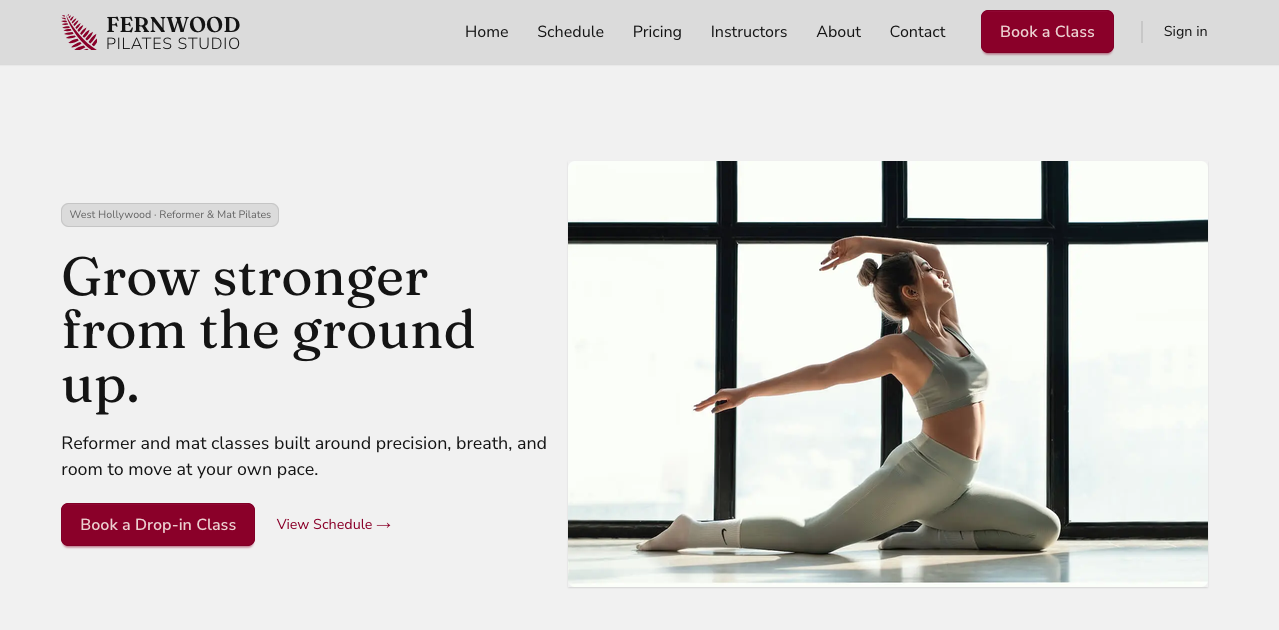
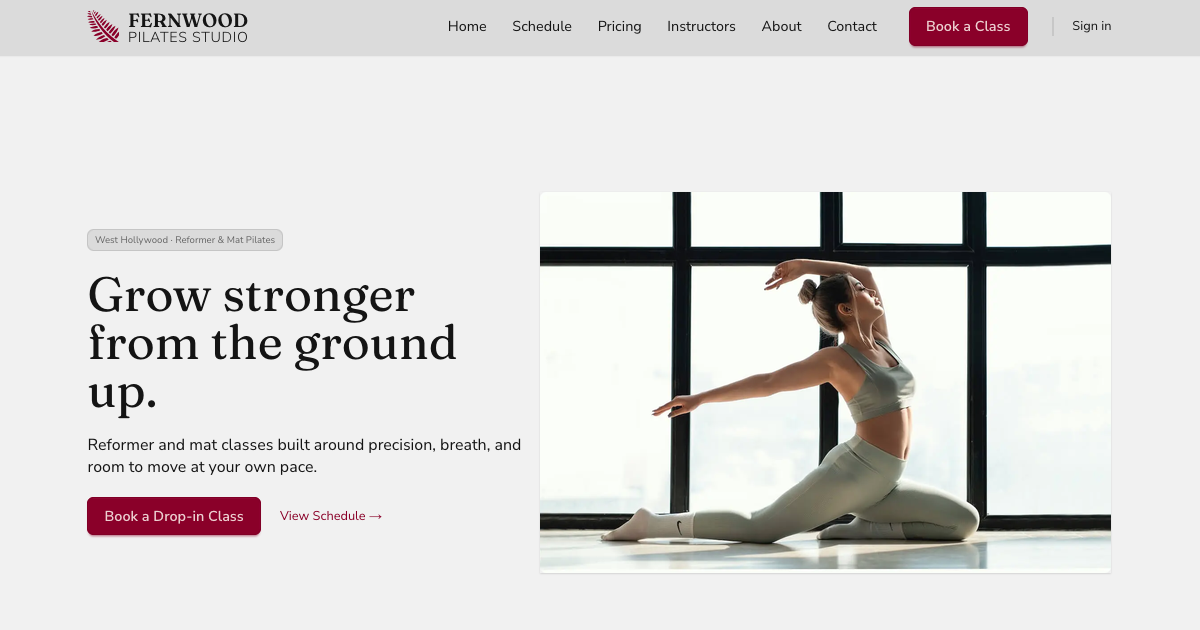
zapped old "neoncore" branded email

diff --git a/src/sections/contact/VisitUs.tsx b/src/sections/contact/VisitUs.tsx
@@ -48,7 +48,7 @@ function VisitUs() {
                 Contact
               </h2>
               <p className="mt-2 font-semibold">(323) 555-1987</p>
-              <p className="font-semibold">[email redacted]</p>
+              <p className="font-semibold">[email redacted]</p>
             </div>
           </div>
         </div>

diff --git a/notes/copy-read-through-checklist.md b/notes/copy-read-through-checklist.md
@@ -2,7 +2,7 @@
 
 ## Leftover rebrand residue from name change from "Neon Core" to "Fernwood"
 
-- [ ] No stray "Neon Core" text anywhere (page content, meta tags, comments)
+- [x] No stray "Neon Core" text anywhere (page content, meta tags, comments)
 - [ ] No leftover nightlife/high-energy tone words ("energy," "intensity," etc.) outside intentional context
 - [ ] Image alt text matches current brand, not the old one
 - [ ] Meta descriptions / error pages written post-rename match Fernwood's calm, plain-spoken register